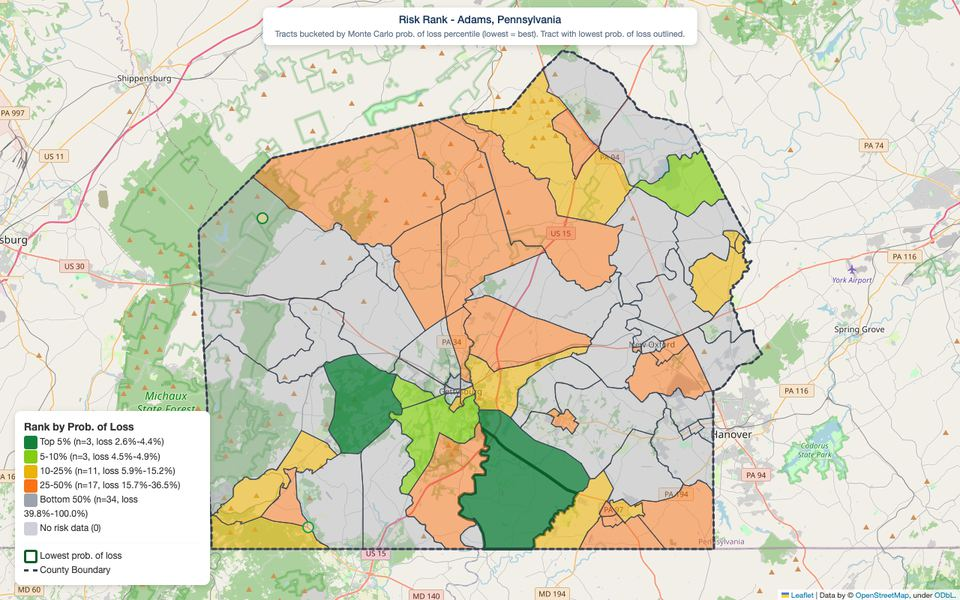
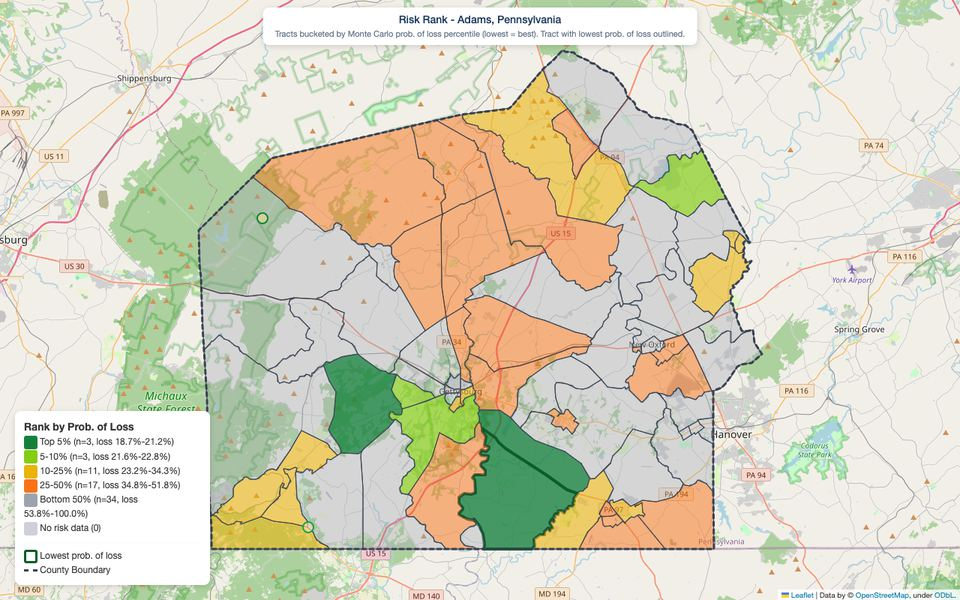
Refresh the Adams County demo numbers and maps

diff --git a/index.html b/index.html
@@ -1537,7 +1537,7 @@
                 <button type="button" class="demo-close" aria-label="Close">&times;</button>
             </div>
             <div class="slider" role="region" aria-roledescription="carousel" aria-label="Revenue projection charts" tabindex="0"><div class="slider-track"><img src="demo/04-revenue-1.jpg" alt="Annual revenue distribution across block groups, with median and break-even" loading="lazy" width="1200" height="750"><img src="demo/04-revenue-2.jpg" alt="Annual revenue against site score, colored by capacity utilization" loading="lazy" width="1200" height="750"><img src="demo/04-revenue-3.jpg" alt="Average daily customers by scenario against break-even" loading="lazy" width="1200" height="750"><img src="demo/04-revenue-4.jpg" alt="Profit margin distribution, profitable and unprofitable block groups" loading="lazy" width="1200" height="750"></div><div class="slider-nav"><button type="button" class="slider-prev" aria-label="Previous chart">&#8249;</button><div class="slider-dots"><button type="button" class="slider-dot" aria-label="Chart 1"></button><button type="button" class="slider-dot" aria-label="Chart 2"></button><button type="button" class="slider-dot" aria-label="Chart 3"></button><button type="button" class="slider-dot" aria-label="Chart 4"></button></div><span class="slider-count"></span><button type="button" class="slider-next" aria-label="Next chart">&#8250;</button></div></div>
-            <div class="demo-stats"><div><strong>$120K</strong><span>worst case, strongest block group</span></div><div><strong>$549K</strong><span>expected, strongest block group</span></div><div><strong>$1.36M</strong><span>best case, strongest block group</span></div><div><strong>42 of 68</strong><span>block groups above break-even</span></div></div>
+            <div class="demo-stats"><div><strong>$120K</strong><span>worst case, strongest block group</span></div><div><strong>$561K</strong><span>expected, strongest block group</span></div><div><strong>$1.36M</strong><span>best case, strongest block group</span></div><div><strong>42 of 68</strong><span>block groups above break-even</span></div></div>
             <p class="demo-dialog-note">Sample analysis of Adams County, Pennsylvania.</p>
         </dialog>
         <dialog class="demo-dialog" id="demo-05" aria-labelledby="demo-05-title">
@@ -1546,7 +1546,7 @@
                 <button type="button" class="demo-close" aria-label="Close">&times;</button>
             </div>
             <img src="demo/05-risk-assessment.jpg" alt="Map of Adams County, PA block groups ranked by simulated probability of loss" loading="lazy" width="960" height="600">
-            <div class="demo-stats"><div><strong>5,000</strong><span>simulations per block group</span></div><div><strong>3%</strong><span>lowest chance of a loss</span></div><div><strong>38%</strong><span>median chance of a loss</span></div><div><strong>20 of 68</strong><span>block groups at 20% or lower</span></div></div>
+            <div class="demo-stats"><div><strong>5,000</strong><span>simulations per block group</span></div><div><strong>19%</strong><span>lowest chance of a loss</span></div><div><strong>53%</strong><span>median chance of a loss</span></div><div><strong>14 of 68</strong><span>block groups at 30% or lower</span></div></div>
             <p class="demo-dialog-note">Sample analysis of Adams County, Pennsylvania.</p>
         </dialog>
         <dialog class="demo-dialog" id="demo-06" aria-labelledby="demo-06-title">
